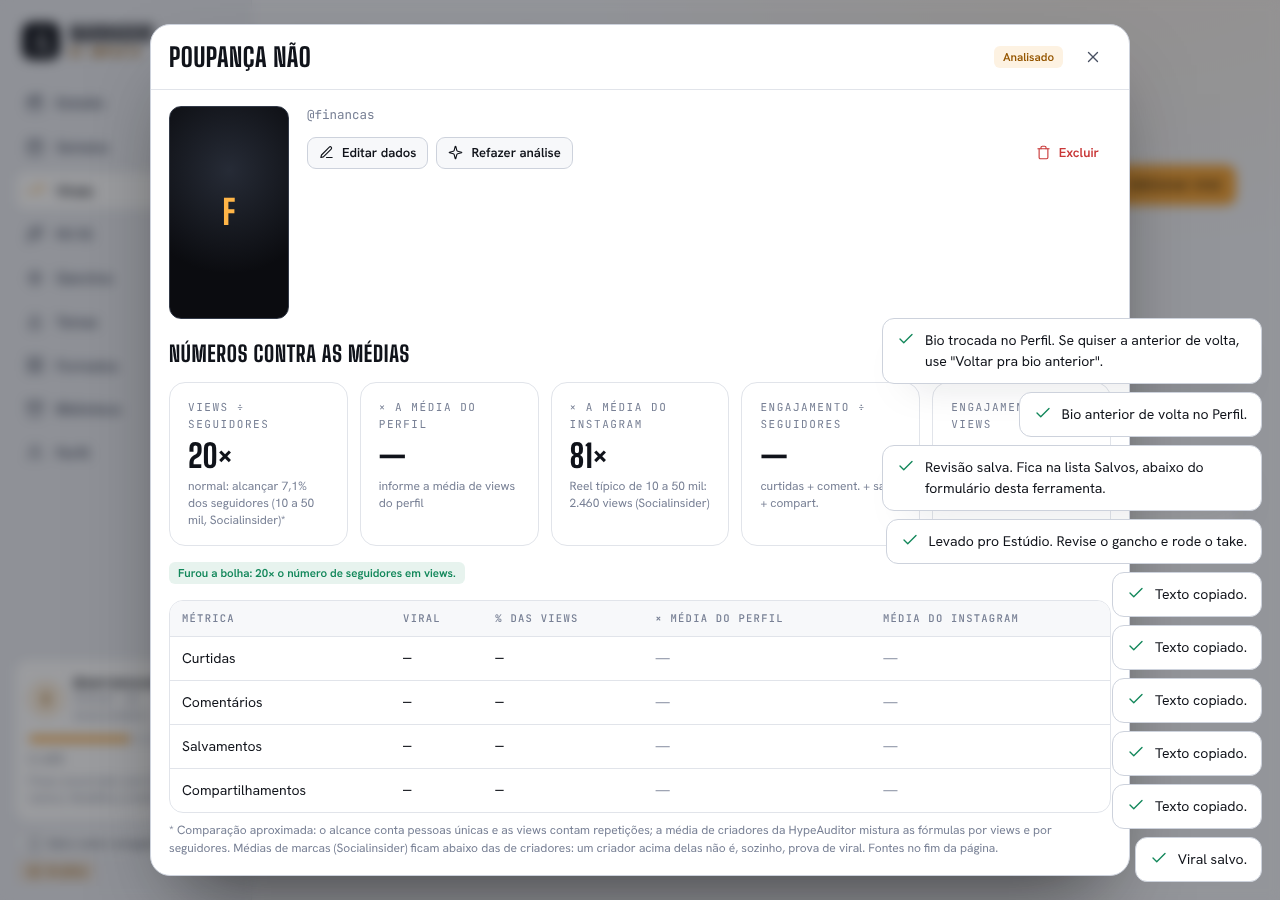
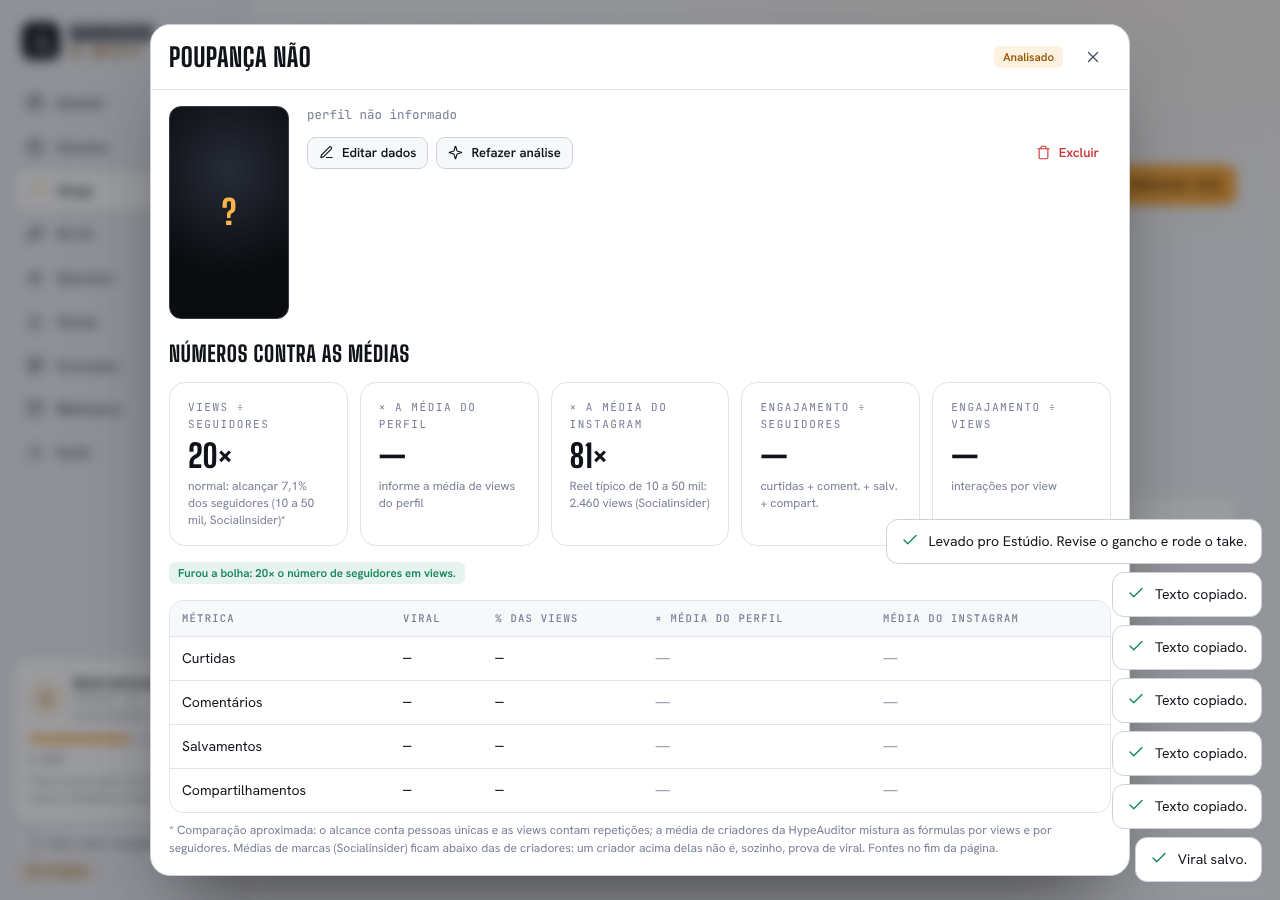
Narrador: puxar viral pelo link via conector vidIQ (perfil, números, média do perfil, vídeo assistido) e salvar+analisar sozinho
Claude-Session: https://claude.ai/code/session_01QAZrbRGiPp3RE4ZVEmkwUk

diff --git a/narrador/ig-link.js b/narrador/ig-link.js
@@ -1,0 +1,200 @@
+/* Narrador de Impacto — puxar um viral pelo link (conector vidIQ do claude.ai)
+   Com o link do Reel e o @: lê o perfil (seguidores, bio), os números do Reel
+   (views, curtidas, comentários, duração, data, legenda, capa), a média dos
+   outros Reels do perfil e "assiste" o vídeo cena a cena. Depois salva e analisa. */
+(function () {
+  const X = window.NDX; if (!X) return;
+  const A = () => window.NDA;
+  const esc = X.esc, ic = (n, c) => X.ic(n, c);
+  const SERVER = 'vidlQ';
+  const T = { perfil: 'vidiq_ig_profile', reels: 'vidiq_ig_profile_reels', assistir: 'vidiq_watch_shortform_content', job: 'vidiq_job_poll' };
+  let mcpP = null;
+  const mcp = () => {
+    if (!mcpP) mcpP = (async () => { try { return window.claude && window.claude.use ? await window.claude.use('mcp') : null; } catch (e) { return null; } })();
+    return mcpP;
+  };
+  mcp();
+
+  /* ---------- leitura das respostas do vidIQ (texto em markdown) ---------- */
+  const num = s => { const A2 = A(); return A2 && A2.E ? A2.E.parseNum(String(s || '').replace(/k$/i, ' mil').replace(/m$/i, ' mi')) : Number(s); };
+  const kmil = s => { const t = String(s || '').trim(); const m = t.match(/^([\d.,]+)\s*([KkMm])?$/); if (!m) return t; const n = parseFloat(m[1].replace(/,/g, '')); if (!m[2]) return t.replace(/,/g, ''); return (m[2].toLowerCase() === 'k' ? n * 1e3 : n * 1e6).toLocaleString('pt-BR', { maximumFractionDigits: 0 }); };
+  const textoDe = r => {
+    if (r == null) return '';
+    if (typeof r.payload === 'string') return r.payload;
+    const c = (r.content || []).filter(b => b && b.type === 'text').map(b => b.text).join('\n');
+    if (c) return c;
+    return typeof r.payload === 'object' ? JSON.stringify(r.payload) : String(r.payload || '');
+  };
+  function lerPerfil(res) {
+    const t = textoDe(res);
+    const out = { handle: '', nome: '', seguidores: '', posts: '', bio: '' };
+    const h = t.match(/##\s*@([A-Za-z0-9._]+)\s*(?:—|-)\s*(.*)/); if (h) { out.handle = '@' + h[1]; out.nome = h[2].trim(); }
+    const f = t.match(/([\d.,]+\s*[KkMm]?)\s+followers/); if (f) out.seguidores = kmil(f[1].replace(/\s/g, ''));
+    const p = t.match(/([\d.,]+\s*[KkMm]?)\s+posts/); if (p) out.posts = p[1];
+    const b = t.match(/>\s*"([\s\S]*?)"\s*$/m) || t.match(/>\s*"([\s\S]*)"/); if (b) out.bio = b[1].trim();
+    return out;
+  }
+  function lerReels(res) {
+    const t = textoDe(res);
+    const reels = [];
+    const re = /###\s*([A-Za-z0-9_-]+)\s*(?:—|-)\s*([^\n]*)\n(?:https?:\/\/\S+\n)?(?:>\s*"([\s\S]*?)"\s*(?=\n###|\n*$))?/g;
+    let m;
+    while ((m = re.exec(t))) {
+      const meta = m[2];
+      const g = rx => { const x = meta.match(rx); return x ? x[1] : ''; };
+      reels.push({ code: m[1], views: kmil(g(/([\d.,]+[KkMm]?)\s+plays/)), curtidas: kmil(g(/([\d.,]+[KkMm]?)\s+likes/)), comentarios: kmil(g(/([\d.,]+[KkMm]?)\s+comments/)), duracao: g(/(\d+)s\b/), postadoEm: g(/posted\s+(\d{4}-\d{2}-\d{2})/), legenda: (m[3] || '').trim() });
+    }
+    // capas: blocos de imagem logo depois do texto "Reel CODE — ..."
+    const capas = {};
+    let atual = null;
+    (res && res.content || []).forEach(b => {
+      if (!b) return;
+      if (b.type === 'text') { const x = String(b.text || '').match(/^Reel\s+([A-Za-z0-9_-]+)\s*(?:—|-)/); atual = x ? x[1] : atual; }
+      else if (b.type === 'image' && atual && b.data) { capas[atual] = { data: b.data, mime: b.mimeType || 'image/jpeg' }; atual = null; }
+    });
+    reels.forEach(r => { r.capa = capas[r.code] || null; });
+    return reels;
+  }
+  const codigoDoLink = url => { const m = String(url || '').match(/instagram\.com\/(?:[A-Za-z0-9._]+\/)?(reel|reels|p|tv)\/([A-Za-z0-9_-]+)/i); return m ? { tipo: m[1].toLowerCase() === 'p' ? 'post' : 'reel', code: m[2] } : null; };
+  const b64Blob = (b64, mime) => { const bin = atob(b64); const u = new Uint8Array(bin.length); for (let i = 0; i < bin.length; i++) u[i] = bin.charCodeAt(i); return new Blob([u], { type: mime || 'image/jpeg' }); };
+  const media = arr => { const v = arr.map(num).filter(x => x != null && isFinite(x) && x > 0); return v.length ? v.map(x => Math.round(x).toLocaleString('pt-BR')).join('; ') : ''; };
+
+  X.link = { lerPerfil, lerReels, codigoDoLink, kmil };
+  /* ---------- erros do conector, com o que fazer ---------- */
+  function msgErro(e) {
+    const c = e && e.code;
+    if (c === 'server_not_connected') return 'O vidIQ não está conectado na sua conta. Adicione em claude.ai › Configurações › Conectores e tente de novo.';
+    if (c === 'needs_reauth') return 'A conexão com o vidIQ expirou. Reconecte em claude.ai › Configurações › Conectores.';
+    if (c === 'not_in_manifest' || c === 'not_granted') return 'Você não liberou o vidIQ pra esta ferramenta. Recarregue a página e permita quando o Claude perguntar.';
+    if (c === 'selection_required') return 'Você tem mais de uma conta vidIQ conectada: escolha uma quando o Claude perguntar.';
+    if (c === 'blocked_by_policy' || c === 'approval_required') return 'A sua organização bloqueou esta função do vidIQ.';
+    if (c === 'tool_error') return 'O vidIQ não conseguiu ler: ' + String(e.message || '').slice(0, 200);
+    if (c === 'server_unavailable') return 'O vidIQ não respondeu agora. Tente de novo em instantes.';
+    return 'Não deu pra falar com o vidIQ agora (' + (c || 'erro') + '). Tente de novo.';
+  }
+
+  /* ---------- o bloco no formulário ---------- */
+  X.viralFormLink = M => {
+    const L = M.link || {};
+    const pronto = !!(window.claude && window.claude.use);
+    const passos = (L.passos || []).map(p => `<li class="${p.ok === false ? 'bad' : ''}"><b>${esc(p.t)}</b>${p.d ? `<span>${esc(p.d)}</span>` : ''}</li>`).join('');
+    return `<div class="kl-box">
+      <div class="kit-row"><b class="grow">Puxar tudo pelo link</b><button type="button" class="btn sm primary" data-a="x-link-puxar" ${L.busy || !pronto ? 'disabled' : ''}>${ic('spark', 'sm')} ${L.busy ? 'Puxando…' : 'Puxar dados e assistir'}</button></div>
+      <p class="kit-hint">Cole o link do Reel e o @ de quem postou. O app usa o seu vidIQ (conector do claude.ai) pra trazer seguidores, views, curtidas, comentários, duração, data, legenda, capa e a média do perfil, e pra assistir o vídeo cena a cena. Depois salva e analisa sozinho. Gasta cerca de 20 créditos do vidIQ por viral. Compartilhamentos e salvamentos o Instagram não mostra pra quem não é o dono.</p>
+      ${passos ? `<ul class="fixlist kl-passos">${passos}</ul>` : ''}
+      ${L.err ? `<p class="gate-err">${ic('alert', 'sm')}<span>${esc(L.err)}</span></p>` : ''}
+    </div>`;
+  };
+  X.css(`.kl-box{margin-top:12px; padding:12px 14px; border:1px solid var(--amber-line); background:var(--amber-soft); border-radius:12px; display:flex; flex-direction:column; gap:8px}
+.kl-box .kit-hint{margin:0}
+.kl-passos li{border-left-color:var(--good)} .kl-passos li.bad{border-left-color:var(--bad)}`);
+
+  const passo = (M, t, d, ok) => { M.link.passos.push({ t, d: d || '', ok }); if (A().ui.modal === M) A().renderModal(); };
+
+  X.action('x-link-puxar', async () => {
+    const a = A(); const M = a.ui.modal; if (!M || M.type !== 'viral-form') return;
+    const d = M.draft;
+    M.link = { busy: true, passos: [], err: '' }; a.renderModal();
+    const fim = err => { M.link.busy = false; if (err) M.link.err = err; if (a.ui.modal === M) a.renderModal(); };
+    const cod = codigoDoLink(d.link);
+    if (!cod) return fim('Cole o link completo do post (ex.: https://www.instagram.com/reel/ABC123/).');
+    const m = await mcp();
+    if (!m) return fim('Esta visualização não acessa os conectores do claude.ai. Abra a ferramenta no claude.ai pra puxar pelo link.');
+    if (cod.tipo === 'post' && d.tipo !== 'carrossel') { d.tipo = 'carrossel'; }
+    let handle = String(d.handle || '').replace(/^@/, '').trim();
+    const call = (tool, input) => m.callTool(SERVER, tool, input);
+
+    // 1) assistir (só Reel; roda em paralelo com o resto)
+    const assistir = cod.tipo === 'reel' ? (async () => {
+      try {
+        const r = await call(T.assistir, { url: `https://www.instagram.com/reel/${cod.code}/`, prompt: 'Descreva cena a cena com os segundos: o que aparece no primeiro frame, a fala exata (transcrição completa), o texto na tela, os cortes, a câmera, o áudio, a prova mostrada e como termina. Diga também quem é o criador (@) se aparecer, o assunto em até 8 palavras e o nicho. Português do Brasil.' });
+        const p = r && r.payload; const job = (p && p.mcpJobId) || (String(textoDe(r)).match(/job_[A-Za-z0-9-]+/) || [])[0];
+        if (!job) return textoDe(r);
+        passo(M, 'Assistindo o vídeo', 'O vidIQ está vendo o Reel cena a cena. Leva de 2 a 15 minutos; pode deixar esta janela aberta.');
+        for (let i = 0; i < 150; i++) {
+          await new Promise(ok => setTimeout(ok, 6000));
+          if (a.ui.modal !== M) return null;
+          const q = await call(T.job, { mcpJobId: job });
+          const qp = q && q.payload && typeof q.payload === 'object' ? q.payload : (() => { try { return JSON.parse(textoDe(q)); } catch (e) { return {}; } })();
+          if (qp.status === 'completed') { const rs = qp.result; return typeof rs === 'string' ? rs : rs && (rs.markdown || rs.walkthrough || rs.text || rs.content) || JSON.stringify(rs || ''); }
+          if (qp.status === 'failed' || qp.status === 'expired') throw { code: 'tool_error', message: qp.message || 'o vídeo não pôde ser assistido' };
+        }
+        throw { code: 'tool_error', message: 'demorou demais' };
+      } catch (e) { passo(M, 'Não deu pra assistir o vídeo', msgErro(e) + ' Você ainda pode subir o vídeo ou prints.', false); return null; }
+    })() : Promise.resolve(null);
+
+    // 2) perfil e números (precisa do @)
+    try {
+      if (!handle) {
+        passo(M, 'Falta o @ do perfil', 'O link do Reel não diz quem postou. Vou tentar descobrir assistindo o vídeo; se puder, preencha o @ e clique de novo pra trazer seguidores e números.', false);
+      } else {
+        const [rp, rr] = await Promise.all([call(T.perfil, { handle }).catch(e => ({ __err: e })), cod.tipo === 'reel' ? call(T.reels, { handle }).catch(e => ({ __err: e })) : Promise.resolve(null)]);
+        if (rp && rp.__err) passo(M, 'Perfil não lido', msgErro(rp.__err), false);
+        else {
+          const P = lerPerfil(rp);
+          if (P.handle) d.handle = P.handle;
+          if (P.seguidores) d.seguidores = P.seguidores;
+          if (P.bio && !d.nicho) M.bioOrigem = P.bio;
+          passo(M, `Perfil ${P.handle || '@' + handle}`, [P.seguidores && P.seguidores + ' seguidores', P.posts && P.posts + ' posts', P.nome].filter(Boolean).join(' · '));
+        }
+        if (rr && rr.__err) passo(M, 'Reels do perfil não lidos', msgErro(rr.__err), false);
+        else if (rr) {
+          const rs = lerReels(rr);
+          const este = rs.find(r => r.code === cod.code);
+          const outros = rs.filter(r => r.code !== cod.code);
+          if (este) {
+            ['views', 'curtidas', 'comentarios', 'duracao', 'postadoEm', 'legenda'].forEach(k => { if (este[k]) d[k] = este[k]; });
+            if (este.capa) {
+              try { const blob = b64Blob(este.capa.data, este.capa.mime); const th = await a.thumbFrom(blob); if (th) { d.thumb = th; M.thumbAuto = false; } M.capaBlob = blob; } catch (e) { }
+            }
+            passo(M, 'Números do Reel', [este.views && este.views + ' views', este.curtidas && este.curtidas + ' curtidas', este.comentarios && este.comentarios + ' comentários', este.duracao && este.duracao + ' s'].filter(Boolean).join(' · '));
+          } else passo(M, 'Este Reel não está entre os 12 mais recentes do perfil', 'Os números dele não vieram: suba um print da tela do Reel pra completar.', false);
+          if (outros.length) {
+            d.media = Object.assign({}, d.media || {}, { views: media(outros.map(r => r.views)), curtidas: media(outros.map(r => r.curtidas)), comentarios: media(outros.map(r => r.comentarios)) });
+            passo(M, 'Média do perfil', `${outros.length} Reels recentes usados pra comparar.`);
+          }
+        }
+      }
+    } catch (e) { passo(M, 'Erro ao ler o perfil', msgErro(e), false); }
+    if (a.ui.modal === M) a.renderModal();
+
+    // 3) espera o vídeo assistido e organiza com a IA
+    const vista = await assistir;
+    if (a.ui.modal !== M) return;
+    if (vista) {
+      d.assistido = String(vista).slice(0, 12000);
+      passo(M, 'Vídeo assistido', 'A descrição cena a cena vai junto na análise.');
+      if (a.sample) {
+        try {
+          const r = await a.sample.json(`Abaixo está a descrição cena a cena de um Reel do Instagram, feita por uma ferramenta que assistiu o vídeo. Extraia só o que está nela, sem inventar. Português do Brasil.
+"""
+${d.assistido.slice(0, 9000)}
+"""
+Responda só com JSON: {"handle": "@ do criador se aparecer, ou null", "titulo": "assunto em até 8 palavras", "nicho": "nicho do perfil, ou null", "transcricao": "a fala completa, na ordem", "textoTela": "os textos que aparecem na tela, na ordem", "edicao": "a edição em 2 ou 3 frases: frame 0, ritmo de corte, recursos", "audio": "Voz original | Áudio em alta (trend) | Narração + música | Música sem voz | null"}`, { modelTier: 'quick', cache: false });
+          const ok = x => x != null && String(x).trim() && String(x).trim().toLowerCase() !== 'null';
+          if (r && ok(r.handle) && !d.handle) d.handle = String(r.handle).startsWith('@') ? String(r.handle) : '@' + r.handle;
+          if (r && ok(r.titulo) && !d.titulo) d.titulo = String(r.titulo).slice(0, 90);
+          if (r && ok(r.nicho) && !d.nicho) d.nicho = String(r.nicho).slice(0, 80);
+          if (r && ok(r.transcricao) && !d.roteiro) d.roteiro = String(r.transcricao).slice(0, 6000);
+          if (r && ok(r.textoTela) && !d.textoTela) d.textoTela = String(r.textoTela).slice(0, 1200);
+          if (r && ok(r.edicao) && !d.edicao) d.edicao = String(r.edicao).slice(0, 2000);
+          if (r && ok(r.audio) && !d.audio && ['Voz original', 'Áudio em alta (trend)', 'Narração + música', 'Música sem voz'].includes(String(r.audio))) d.audio = String(r.audio);
+        } catch (e) { }
+      }
+    }
+    if (!d.nicho && M.bioOrigem) d.nicho = M.bioOrigem.split('\n')[0].slice(0, 80);
+    if (!d.titulo) d.titulo = (d.legenda || '').split('\n')[0].slice(0, 80) || 'Viral ' + (d.handle || '');
+    // capa como imagem extra da análise (quando não há prints)
+    if (M.capaBlob && !(M.files || []).length) { M.files = [M.capaBlob]; M.urls = [URL.createObjectURL(M.capaBlob)]; }
+    M.link.busy = false;
+    const S = a.E.viralStats(Object.assign({ media: {} }, d));
+    const podeAnalisar = S.seg && (S.views || (d.tipo === 'carrossel' && num(d.curtidas)));
+    if (podeAnalisar && a.ui.ai === 'on') {
+      passo(M, 'Tudo pronto: salvando e analisando', 'Confira os campos depois na edição do viral.');
+      a.A['salvar-viral']({ dataset: { analisar: '1' } });
+    } else {
+      M.link.err = podeAnalisar ? '' : 'Faltou ' + (!S.seg ? 'o número de seguidores' : 'o número de views') + ' pra analisar. Preencha (ou suba um print) e clique em Salvar e analisar.';
+      if (a.ui.modal === M) a.renderModal();
+    }
+  });
+})();

diff --git a/narrador/teste/teste-novos.js b/narrador/teste/teste-novos.js
@@ -7,7 +7,16 @@ const INIT = () => {
   const sample = async (i, o) => { const r = prox(i, o); return { text: JSON.stringify(r && r.json), truncated: false }; };
   sample.json = async (i, o) => { const r = prox(i, o); if (!r) throw { code: 'invalid_json' }; return r.json; };
   sample.limits = async () => ({ maxPromptBytes: 65536, images: { maxCount: 6, maxInputBytes: 20000000, mediaTypes: ['image/jpeg', 'image/png', 'image/webp', 'image/gif'] } });
-  window.claude = { use: async n => (n === 'sample' ? sample : null) };
+  const REELS = '## @fulano — 3 reels\n\n### ABC123 — 1.2M plays, 85K likes, 1,204 comments, 38s, posted 2026-10-01\nhttps://www.instagram.com/reel/ABC123/\n> "Pare de guardar dinheiro na poupança"\n\n### OUT1 — 40K plays, 2K likes, 30 comments, 30s, posted 2026-09-20\nhttps://www.instagram.com/reel/OUT1/\n\n### OUT2 — 60K plays, 3K likes, 50 comments, 31s, posted 2026-09-10\nhttps://www.instagram.com/reel/OUT2/\n';
+  let polls = 0;
+  window.__mcp = [];
+  const mcp = { callTool: async (srv, tool, input) => { window.__mcp.push(tool);
+    if (tool === 'vidiq_ig_profile') return { content: [{ type: 'text', text: '## @fulano — Fulano Finanças\n48.2K followers | 10 following | 300 posts\n> "Finanças pessoais sem enrolação"' }], payload: '## @fulano — Fulano Finanças\n48.2K followers | 10 following | 300 posts\n> "Finanças pessoais sem enrolação"' };
+    if (tool === 'vidiq_ig_profile_reels') return { content: [{ type: 'text', text: REELS }], payload: REELS };
+    if (tool === 'vidiq_watch_shortform_content') return { payload: { mcpJobId: 'job_1', status: 'inprogress' } };
+    if (tool === 'vidiq_job_poll') return { payload: polls++ < 1 ? { status: 'inprogress' } : { status: 'completed', result: '0:00 Frame 0: homem joga a carteira na mesa. Fala: "Pare de guardar dinheiro na poupança."' } };
+  } };
+  window.claude = { use: async n => (n === 'sample' ? sample : n === 'mcp' ? mcp : null) };
 };
 const ok = (c, m) => { console.log((c ? 'ok   ' : 'FALHA') + ' ' + m); if (!c) process.exitCode = 1; };
 (async () => {
@@ -16,6 +25,19 @@ const ok = (c, m) => { console.log((c ? 'ok   ' : 'FALHA') + ' ' + m); if (!c) p
   await page.addInitScript(INIT);
   await page.goto('file://' + path.resolve(__dirname, '../index.html'));
   await page.waitForFunction(() => window.NDA && window.NDA.ui.ai === 'on');
+  // puxar pelo link (vidIQ simulado)
+  await page.evaluate(() => { window.NDA.go('virais'); });
+  await page.click('[data-a="add-viral"]');
+  await page.fill('#vf-link', 'https://www.instagram.com/reel/ABC123/?igsh=xx');
+  await page.fill('#vf-handle', '@fulano');
+  await page.evaluate(() => { window.__respostas.push({ json: { titulo: 'Poupança não rende', nicho: 'finanças pessoais', transcricao: 'Pare de guardar dinheiro na poupança.', textoTela: 'PARE', edicao: 'joga a carteira', audio: 'Voz original' } }); window.__respostas.push({ json: { veredito: 'Inversão', fatores: [{ area: 'gancho', peso: 5, porque: 'x' }] } }); });
+  await page.click('[data-a="x-link-puxar"]');
+  await page.waitForFunction(() => window.NDA.st.virais[0] && window.NDA.st.virais[0].analise, null, { timeout: 30000 });
+  const vl = await page.evaluate(() => { const v = window.NDA.st.virais[0]; return { s: v.seguidores, v: v.views, c: v.curtidas, d: v.duracao, t: v.titulo, r: v.roteiro, a: !!v.assistido, m: v.media.views, n: v.nicho }; });
+  ok(vl.s === '48.200' && vl.v === '1.200.000' && vl.c === '85.000' && vl.d === '38' && vl.a && vl.r && vl.m, 'link puxa perfil, números, média e vídeo assistido ' + JSON.stringify(vl));
+  const pa = await page.evaluate(() => window.__prompts[window.__prompts.length - 1].input);
+  ok(/VÍDEO ASSISTIDO CENA A CENA/.test(pa), 'análise usa o vídeo assistido');
+  await page.evaluate(() => { window.NDA.ui.modal = null; window.NDA.renderModal(); });
   // viral com vídeo
   await page.evaluate(() => { window.NDA.go('virais'); });
   await page.click('[data-a="add-viral"]');
@@ -32,7 +54,7 @@ const ok = (c, m) => { console.log((c ? 'ok   ' : 'FALHA') + ' ' + m); if (!c) p
   ok(await page.evaluate(() => window.NDA.st.virais[0].analise.gancho.formula === 'contraria'), 'fórmula com acento normalizada');
   // Extrair e recriar escolhendo o viral
   await page.evaluate(() => { window.NDA.ui.modal = null; window.NDX.abrirFerramenta('gancho', {}); });
-  await page.click('[data-a="x-kg-pick-viral"][data-id]:not([data-id=""])');
+  await page.evaluate(() => { const v = window.NDA.st.virais.find(x => (window.NDA.viralFrames[x.id] || []).length); document.querySelector('[data-a="x-kg-pick-viral"][data-id="' + v.id + '"]').click(); });
   ok(await page.evaluate(() => !!window.NDX.toolState('gancho').viralId), 'viral escolhido pelo cartão');
   await page.evaluate(() => window.__respostas.push({ json: { gancho: 'Pare', formula: 'contraria', objetivo: 'compartilhamentos', porque: 'x', recriados: [1, 2, 3].map(i => ({ texto: 'Gancho ' + i, superficie: 'reel', formula: 'contraria', objetivo: 'salvamentos', angulo: 'a' })) } }));
   await page.click('[data-a="x-kg-gancho-gerar"]');

diff --git a/narrador/app.js b/narrador/app.js
@@ -1446,7 +1446,7 @@
           <label class="field"><span>@ do perfil</span><input type="text" id="vf-handle" data-bind="v.handle" value="${esc(d.handle || '')}" placeholder="@perfil"></label>
           <label class="field"><span>Assunto / título</span><input type="text" id="vf-titulo" data-bind="v.titulo" value="${esc(d.titulo || '')}" placeholder="Ex.: 3 erros de quem vende pelo direct"></label>
           <label class="field"><span>Nicho do perfil de origem</span><input type="text" id="vf-nicho" data-bind="v.nicho" value="${esc(d.nicho || '')}" placeholder="Ex.: finanças pessoais"></label>
-        </div></section>
+        </div>${typeof X.viralFormLink === 'function' ? X.viralFormLink(M) : ''}</section>
       ${car ? `<section><div class="eyebrow">Slides do carrossel (recomendado)</div>
         <p class="faint" style="margin:6px 0 10px; font-size:13.5px">Suba os prints de cada slide, na ordem (o primeiro é a capa). A IA lê o texto, o design e a sequência de cada slide. Valem nesta sessão; a capa fica salva.</p>
         <div class="files">${(M.frames || []).map((f, i) => `<div class="fprev"><img src="${esc(M.frameUrls[i])}" alt="Slide ${i + 1}"><span class="tag mono" style="position:absolute; left:4px; bottom:4px; height:18px; font-size:10px">${i + 1}</span></div>`).join('')}
@@ -1585,7 +1585,7 @@
   }
 
   /* ---------- ações dos virais ---------- */
-  const VKEYS = ['tipo', 'link', 'handle', 'titulo', 'nicho', 'seguidores', 'views', 'curtidas', 'comentarios', 'compartilhamentos', 'salvamentos', 'duracao', 'postadoEm', 'audio', 'roteiro', 'textoTela', 'edicao', 'legenda', 'thumb'];
+  const VKEYS = ['tipo', 'assistido', 'link', 'handle', 'titulo', 'nicho', 'seguidores', 'views', 'curtidas', 'comentarios', 'compartilhamentos', 'salvamentos', 'duracao', 'postadoEm', 'audio', 'roteiro', 'textoTela', 'edicao', 'legenda', 'thumb'];
   function viralDraft(v) {
     const d = {};
     VKEYS.forEach(k => { d[k] = v && v[k] != null ? v[k] : ''; });
@@ -2770,7 +2770,7 @@ Responda só com JSON: {"videos":[{"id":"...","referencia":"...","metricas":{"vi
     $, esc, ic, clone, newId, pad2, grafemas, hl, toast, copy, sampleErr,
     render, renderChrome, renderModal, closeModal, go, sheetHead,
     fmtName, catName, pilarColor, scoreTag, viralById, scriptById, vThumb, filesParaIA, imagensDoViral, viralFrames,
-    renderSlate: () => renderSlate()
+    renderSlate: () => renderSlate(), thumbFrom
   };
 
   /* ---------- boot ---------- */

diff --git a/narrador/engine.js b/narrador/engine.js
@@ -1241,7 +1241,7 @@ ${B().nota ? `Atenção: ${B().nota}` : ''}
 ${contexto ? `\nOUTROS DADOS DE MERCADO:\n${contexto}` : ''}
 ${sinais ? `\nO QUE O PRÓPRIO INSTAGRAM DIZ QUE PESA NO ALCANCE:\n${sinais}` : ''}
 
-ROTEIRO / TRANSCRIÇÃO:
+${v.assistido ? `O VÍDEO ASSISTIDO CENA A CENA (feito por uma ferramenta que assistiu o post; use como fonte principal da edição, da fala e do que aparece na tela):\n"""\n${String(v.assistido).slice(0, 9000)}\n"""\n` : ''}ROTEIRO / TRANSCRIÇÃO:
 """
 ${(v.roteiro || '(não informado)').slice(0, 6000)}
 """
